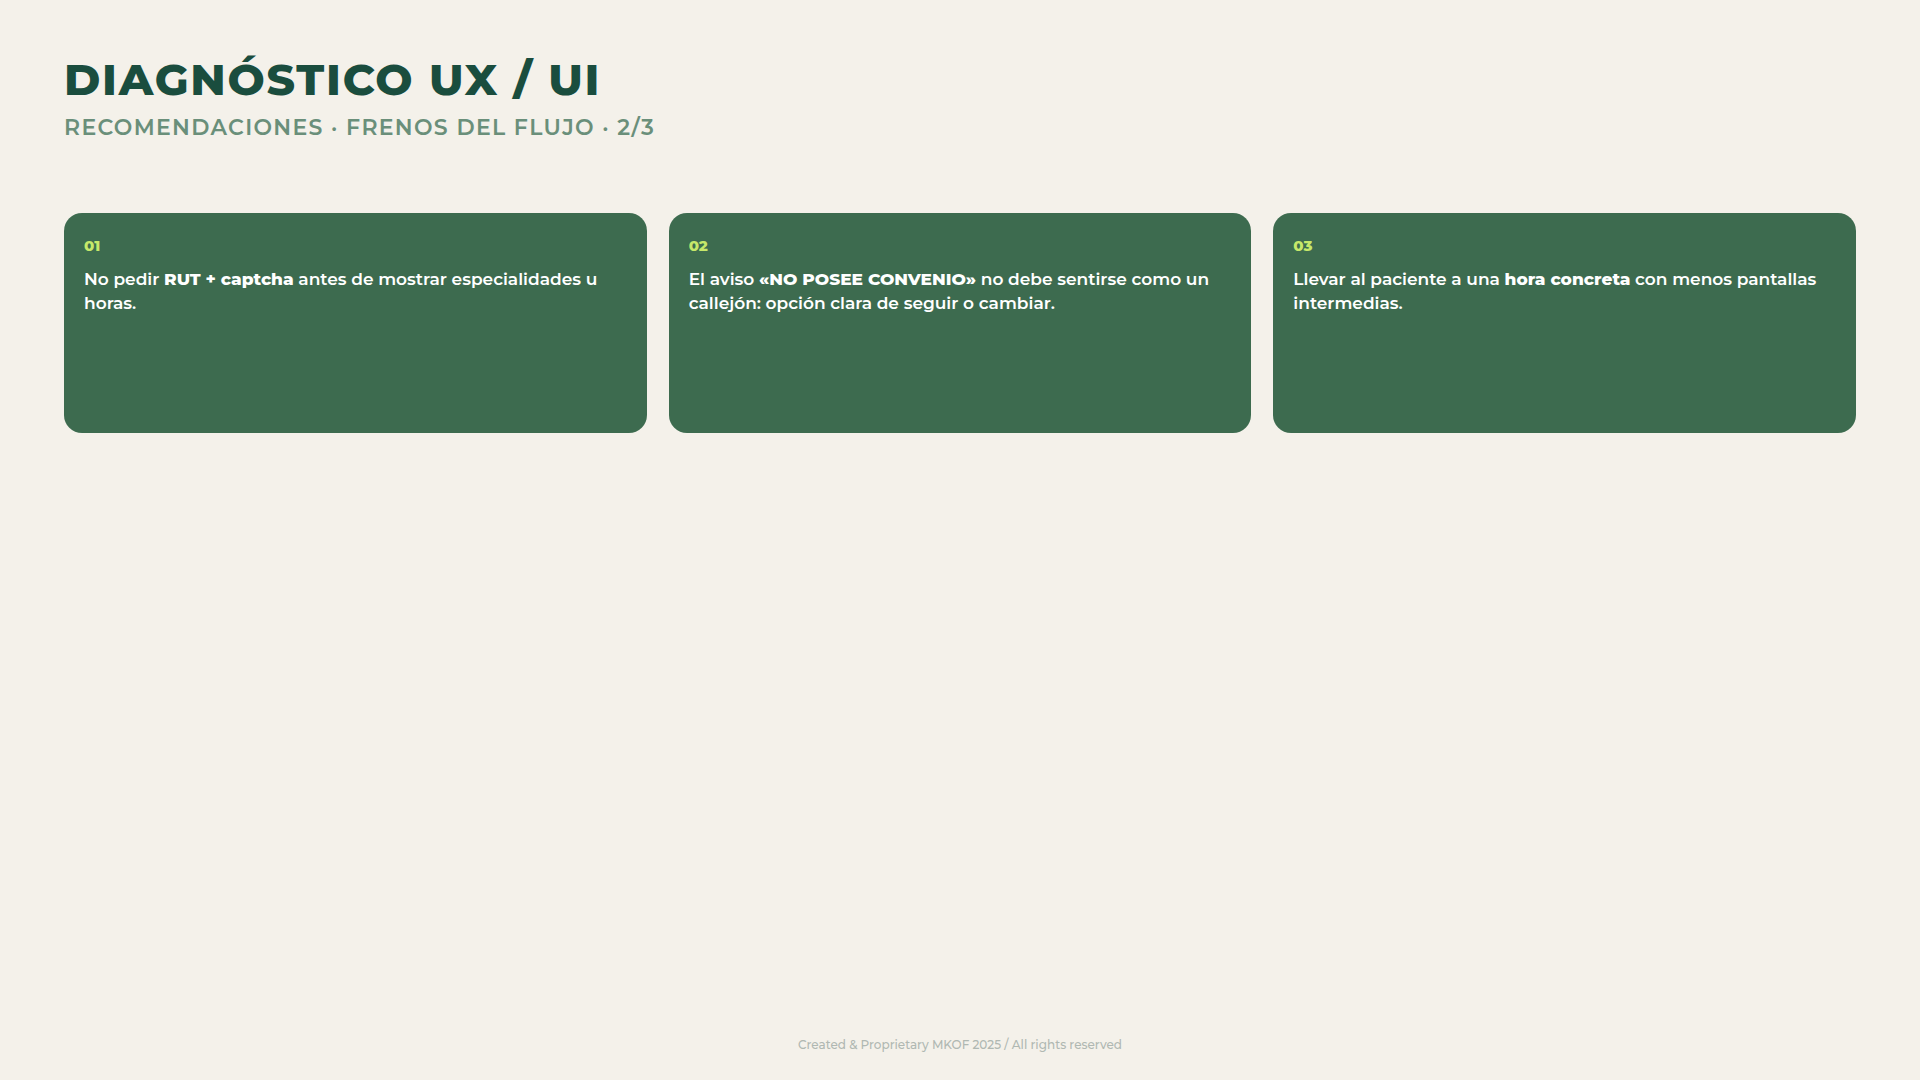
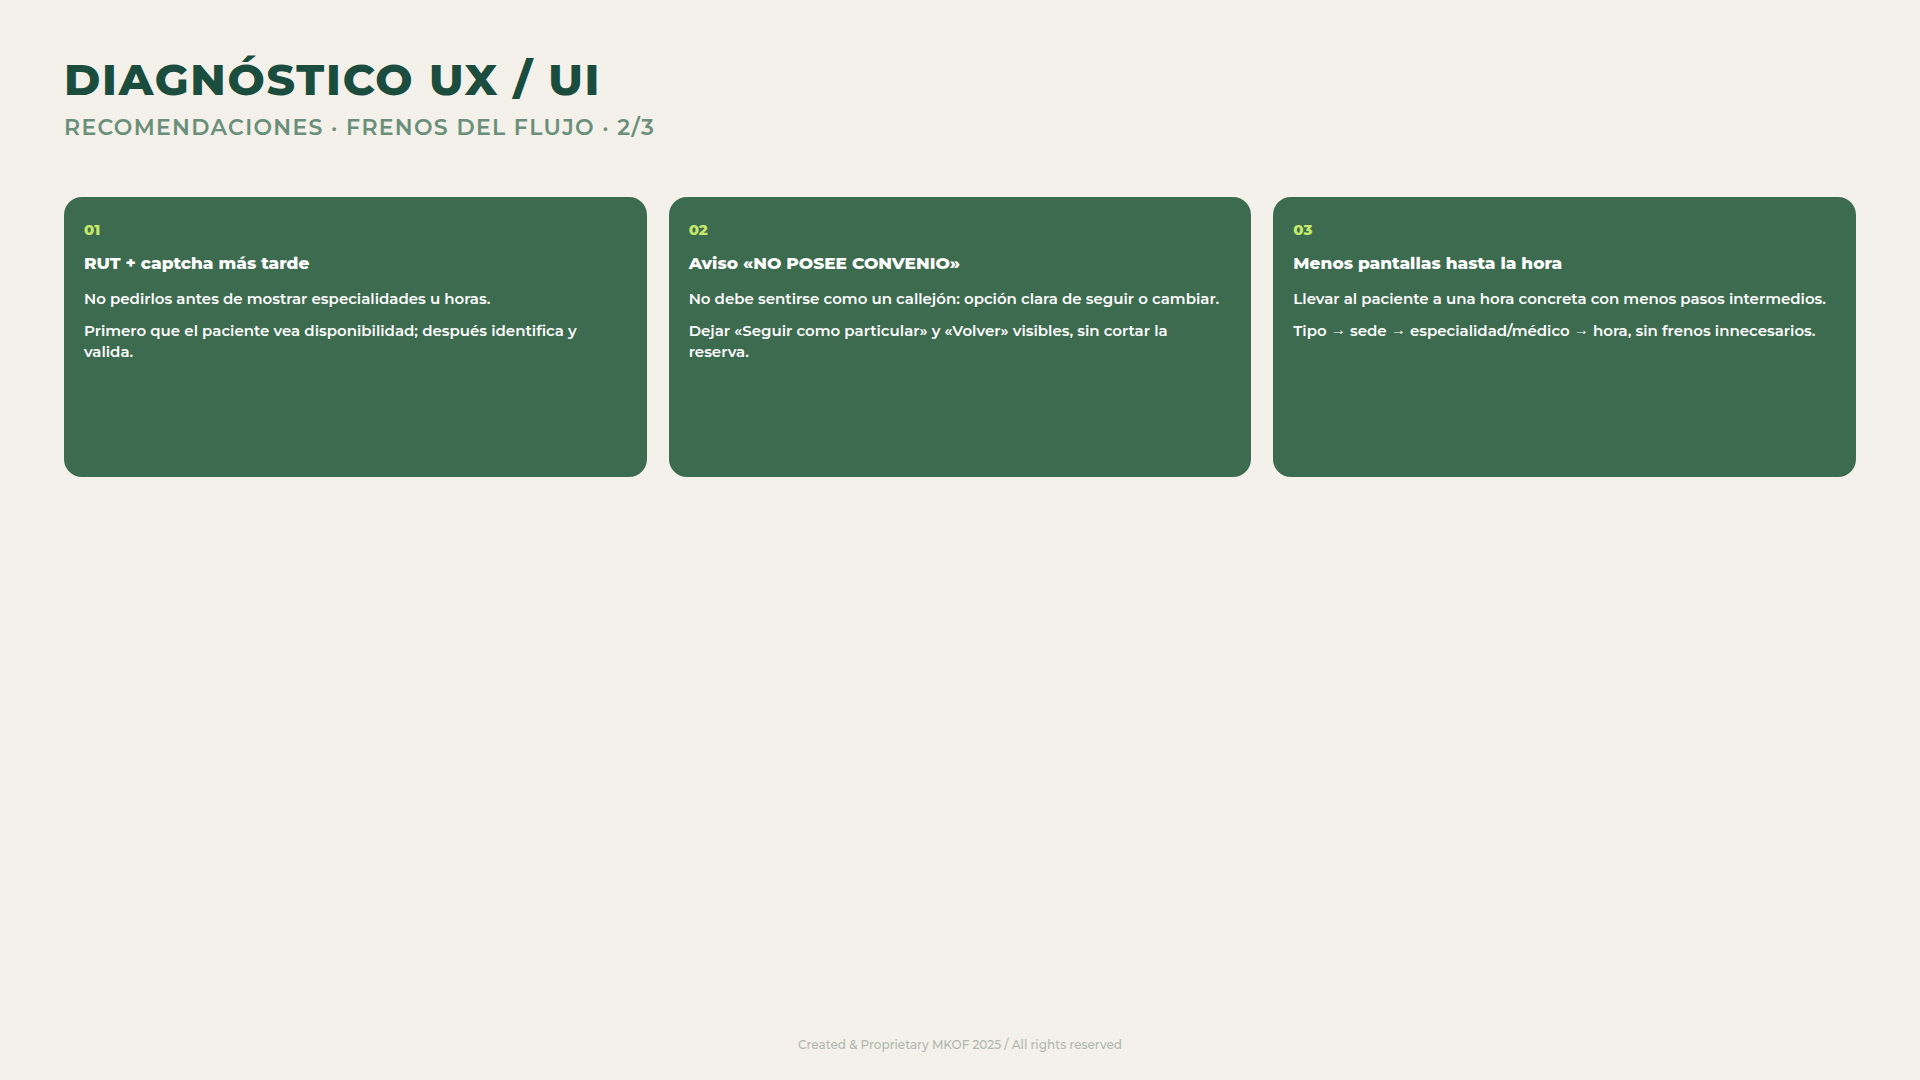
Ampliar textos de bloques verdes en láminas 07b y 07c
Cada recomendación suma una línea extra basada en el flujo
de reserva capturado (frenos y cierre de formulario).

Changed region(s): [[0.0312, 0.1833, 0.9688, 0.3361], [0.0312, 0.3972, 0.9688, 0.4583]]

diff --git a/index/clientes/mkof/prospecto/clientes/clinica-indisa/UX-UI/laminas/07b-recomendaciones-reserva.html b/index/clientes/mkof/prospecto/clientes/clinica-indisa/UX-UI/laminas/07b-recomendaciones-reserva.html
@@ -9,18 +9,36 @@
   <h1>DIAGNÓSTICO UX / UI</h1>
   <div class="sub">RECOMENDACIONES · FRENOS DEL FLUJO · 2/3</div>
 
-  <div style="display:grid;grid-template-columns:repeat(3,1fr);gap:22px;margin-top:72px">
-    <div class="rec" style="min-height:220px">
+  <div style="display:grid;grid-template-columns:repeat(3,1fr);gap:22px;margin-top:56px">
+    <div class="rec" style="min-height:280px">
       <div style="color:#c6e86a;font-size:15px;font-weight:800;margin-bottom:12px">01</div>
-      No pedir <b>RUT + captcha</b> antes de mostrar especialidades u horas.
+      <b>RUT + captcha más tarde</b>
+      <div style="margin-top:12px;font-size:15px;line-height:1.45;font-weight:600">
+        No pedirlos antes de mostrar especialidades u horas.
+      </div>
+      <div style="margin-top:10px;font-size:15px;line-height:1.45;font-weight:600">
+        Primero que el paciente vea disponibilidad; después identifica y valida.
+      </div>
     </div>
-    <div class="rec" style="min-height:220px">
+    <div class="rec" style="min-height:280px">
       <div style="color:#c6e86a;font-size:15px;font-weight:800;margin-bottom:12px">02</div>
-      El aviso <b>«NO POSEE CONVENIO»</b> no debe sentirse como un callejón: opción clara de seguir o cambiar.
+      <b>Aviso «NO POSEE CONVENIO»</b>
+      <div style="margin-top:12px;font-size:15px;line-height:1.45;font-weight:600">
+        No debe sentirse como un callejón: opción clara de seguir o cambiar.
+      </div>
+      <div style="margin-top:10px;font-size:15px;line-height:1.45;font-weight:600">
+        Dejar «Seguir como particular» y «Volver» visibles, sin cortar la reserva.
+      </div>
     </div>
-    <div class="rec" style="min-height:220px">
+    <div class="rec" style="min-height:280px">
       <div style="color:#c6e86a;font-size:15px;font-weight:800;margin-bottom:12px">03</div>
-      Llevar al paciente a una <b>hora concreta</b> con menos pantallas intermedias.
+      <b>Menos pantallas hasta la hora</b>
+      <div style="margin-top:12px;font-size:15px;line-height:1.45;font-weight:600">
+        Llevar al paciente a una hora concreta con menos pasos intermedios.
+      </div>
+      <div style="margin-top:10px;font-size:15px;line-height:1.45;font-weight:600">
+        Tipo → sede → especialidad/médico → hora, sin frenos innecesarios.
+      </div>
     </div>
   </div>
 

diff --git a/index/clientes/mkof/prospecto/clientes/clinica-indisa/UX-UI/laminas/07c-recomendaciones-orden.html b/index/clientes/mkof/prospecto/clientes/clinica-indisa/UX-UI/laminas/07c-recomendaciones-orden.html
@@ -9,18 +9,36 @@
   <h1>DIAGNÓSTICO UX / UI</h1>
   <div class="sub">RECOMENDACIONES · CIERRE Y FORMULARIO · 3/3</div>
 
-  <div style="display:grid;grid-template-columns:repeat(3,1fr);gap:22px;margin-top:72px">
-    <div class="rec" style="min-height:220px">
+  <div style="display:grid;grid-template-columns:repeat(3,1fr);gap:22px;margin-top:56px">
+    <div class="rec" style="min-height:280px">
       <div style="color:#c6e86a;font-size:15px;font-weight:800;margin-bottom:12px">01</div>
-      El calendario y los slots están claros: <b>conservar</b> esa parte del final.
+      <b>Conservar calendario y slots</b>
+      <div style="margin-top:12px;font-size:15px;line-height:1.45;font-weight:600">
+        El calendario y los horarios del final están claros: conservarlos.
+      </div>
+      <div style="margin-top:10px;font-size:15px;line-height:1.45;font-weight:600">
+        La agenda con puntos de disponibilidad y el botón RESERVAR funcionan bien.
+      </div>
     </div>
-    <div class="rec" style="min-height:220px">
+    <div class="rec" style="min-height:280px">
       <div style="color:#c6e86a;font-size:15px;font-weight:800;margin-bottom:12px">02</div>
-      Acortar «Ya estamos casi listos»: <b>menos campos</b> y sin reingresar el email.
+      <b>Acortar «Ya estamos casi listos»</b>
+      <div style="margin-top:12px;font-size:15px;line-height:1.45;font-weight:600">
+        Menos campos de una vez y sin reingresar el email.
+      </div>
+      <div style="margin-top:10px;font-size:15px;line-height:1.45;font-weight:600">
+        Pedir solo lo necesario para confirmar (nombre, mail, teléfono).
+      </div>
     </div>
-    <div class="rec" style="min-height:220px">
+    <div class="rec" style="min-height:280px">
       <div style="color:#c6e86a;font-size:15px;font-weight:800;margin-bottom:12px">03</div>
-      Alinear avisos del formulario con la <b>Ley 21.719</b> (datos sensibles de salud).
+      <b>Avisos alineados a Ley 21.719</b>
+      <div style="margin-top:12px;font-size:15px;line-height:1.45;font-weight:600">
+        El formulario trata datos sensibles de salud: textos claros de consentimiento.
+      </div>
+      <div style="margin-top:10px;font-size:15px;line-height:1.45;font-weight:600">
+        Incluir este marco en el rediseño antes de cerrar el plan digital.
+      </div>
     </div>
   </div>
 
